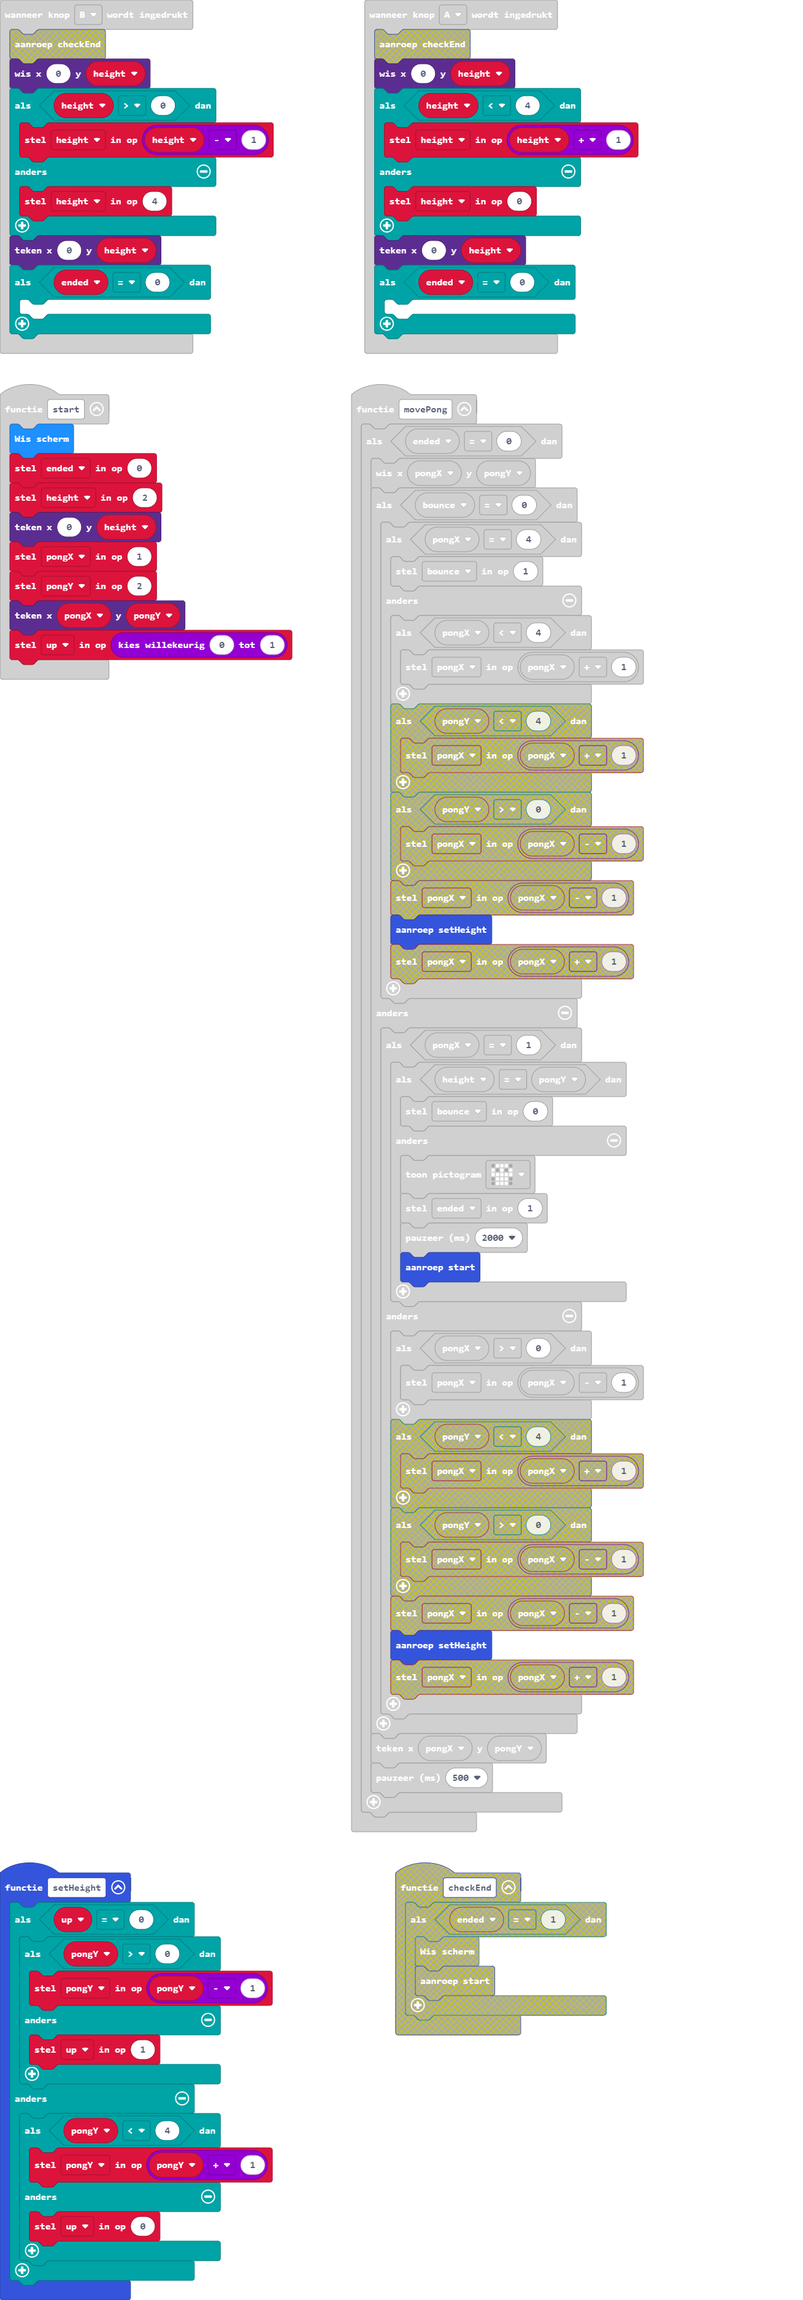
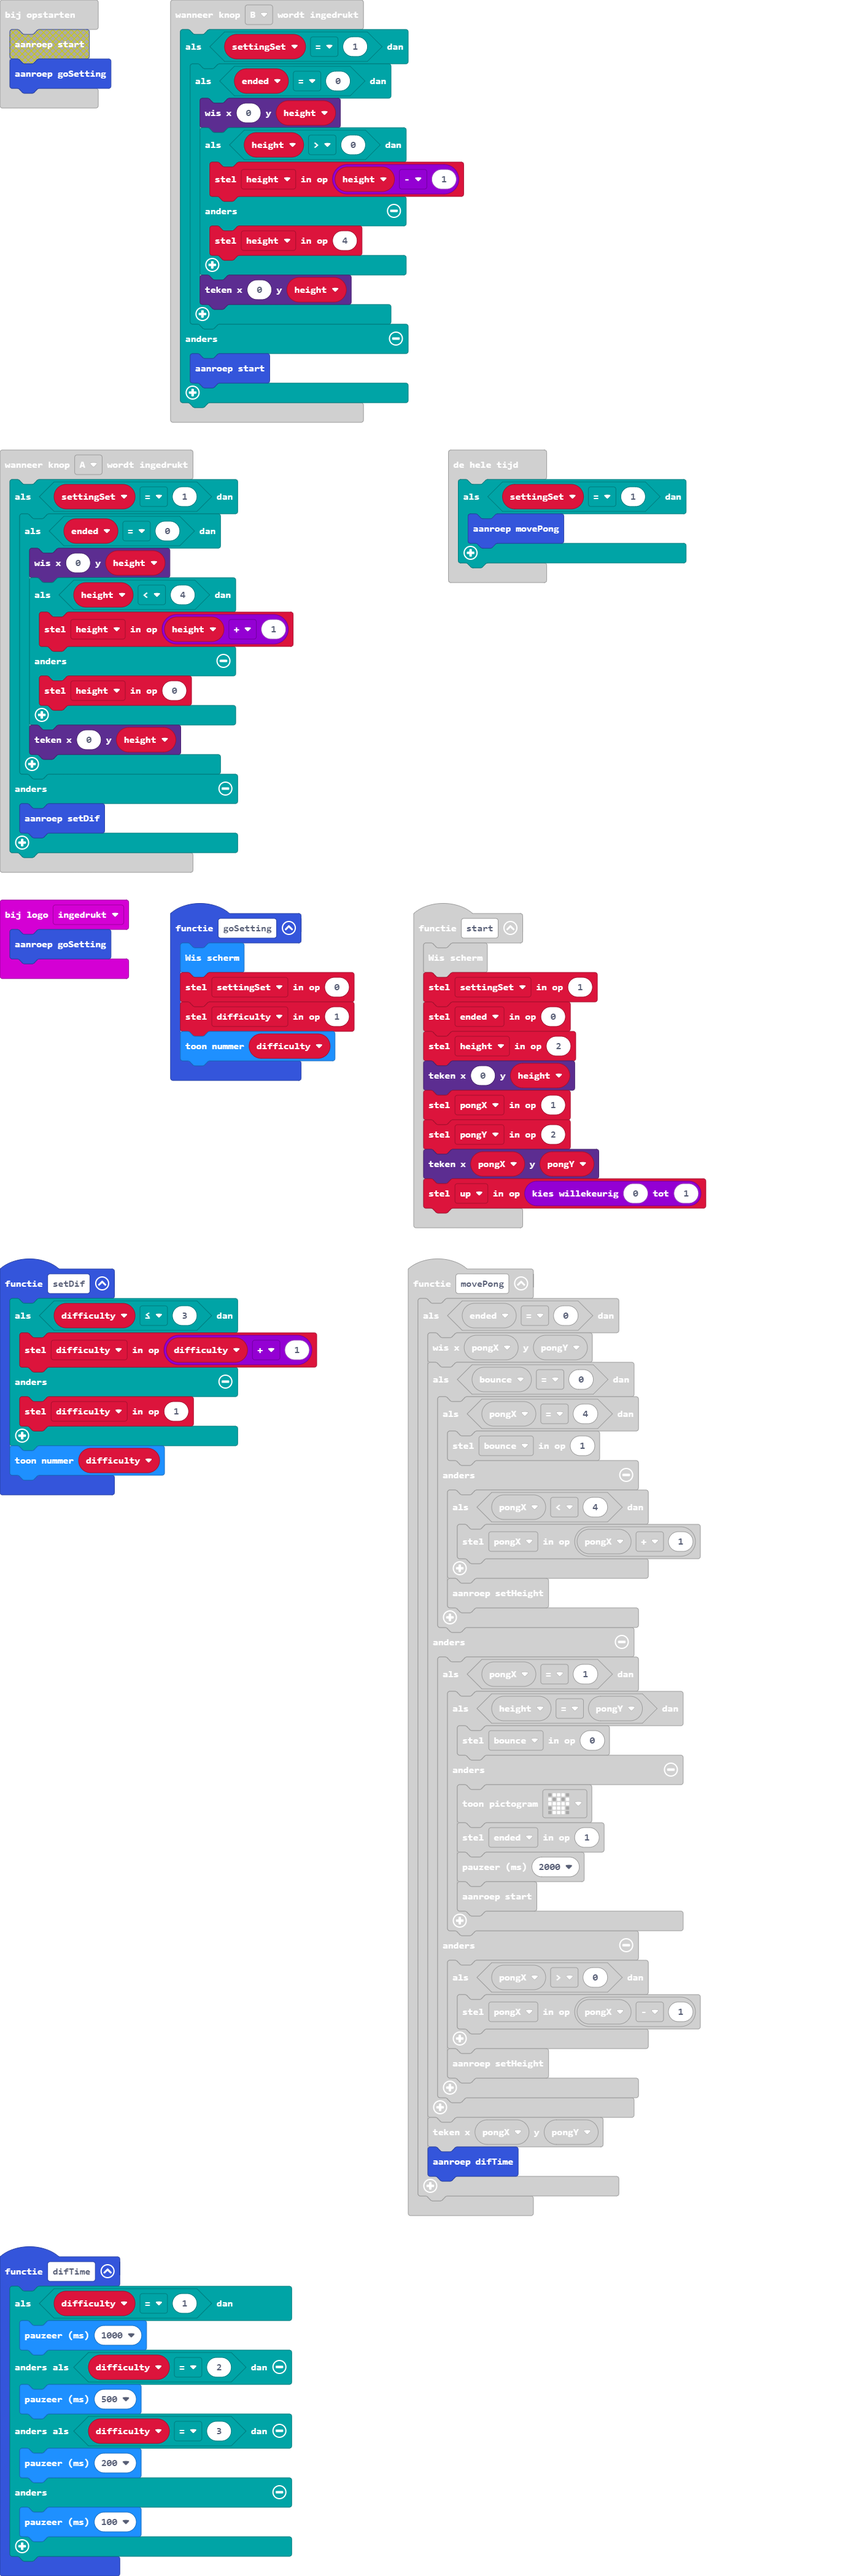
Difficulty can be set

diff --git a/main.ts b/main.ts
@@ -1,12 +1,35 @@
+function setDif () {
+    if (difficulty <= 3) {
+        difficulty = difficulty + 1
+    } else {
+        difficulty = 1
+    }
+    basic.showNumber(difficulty)
+}
+function difTime () {
+    if (difficulty == 1) {
+        basic.pause(1000)
+    } else if (difficulty == 2) {
+        basic.pause(500)
+    } else if (difficulty == 3) {
+        basic.pause(200)
+    } else {
+        basic.pause(100)
+    }
+}
 input.onButtonPressed(Button.A, function () {
-    if (ended == 0) {
-        led.unplot(0, height)
-        if (height < 4) {
-            height = height + 1
-        } else {
-            height = 0
+    if (settingSet == 1) {
+        if (ended == 0) {
+            led.unplot(0, height)
+            if (height < 4) {
+                height = height + 1
+            } else {
+                height = 0
+            }
+            led.plot(0, height)
         }
-        led.plot(0, height)
+    } else {
+        setDif()
     }
 })
 function movePong () {
@@ -39,8 +62,17 @@ function movePong () {
             }
         }
         led.plot(pongX, pongY)
-        basic.pause(500)
+        difTime()
     }
+}
+input.onLogoEvent(TouchButtonEvent.Pressed, function () {
+    goSetting()
+})
+function goSetting () {
+    basic.clearScreen()
+    settingSet = 0
+    difficulty = 1
+    basic.showNumber(difficulty)
 }
 function setHeight () {
     if (up == 0) {
@@ -58,18 +90,23 @@ function setHeight () {
     }
 }
 input.onButtonPressed(Button.B, function () {
-    if (ended == 0) {
-        led.unplot(0, height)
-        if (height > 0) {
-            height = height - 1
-        } else {
-            height = 4
+    if (settingSet == 1) {
+        if (ended == 0) {
+            led.unplot(0, height)
+            if (height > 0) {
+                height = height - 1
+            } else {
+                height = 4
+            }
+            led.plot(0, height)
         }
-        led.plot(0, height)
+    } else {
+        start()
     }
 })
 function start () {
     basic.clearScreen()
+    settingSet = 1
     ended = 0
     height = 2
     led.plot(0, height)
@@ -84,7 +121,11 @@ let pongY = 0
 let pongX = 0
 let height = 0
 let ended = 0
-start()
+let settingSet = 0
+let difficulty = 0
+goSetting()
 basic.forever(function () {
-    movePong()
+    if (settingSet == 1) {
+        movePong()
+    }
 })
